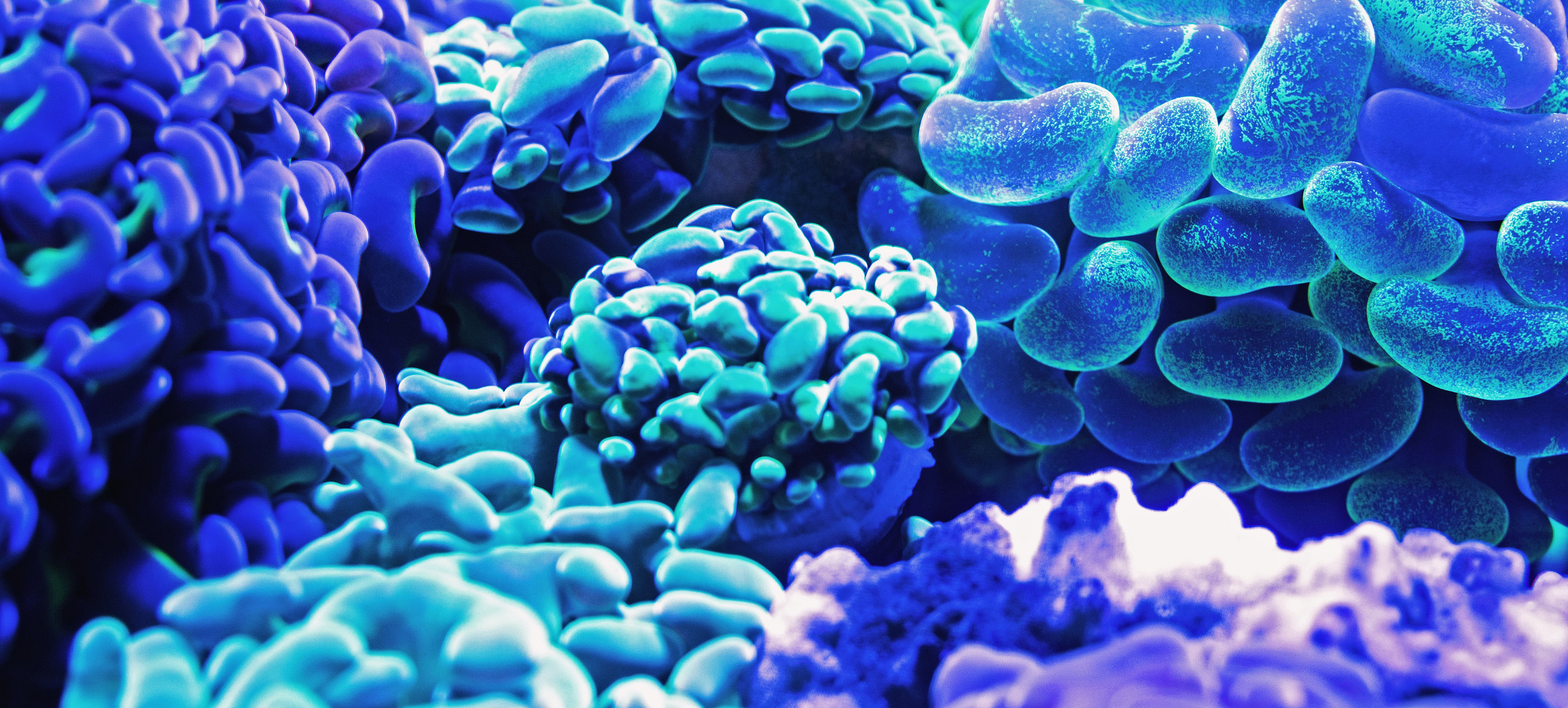
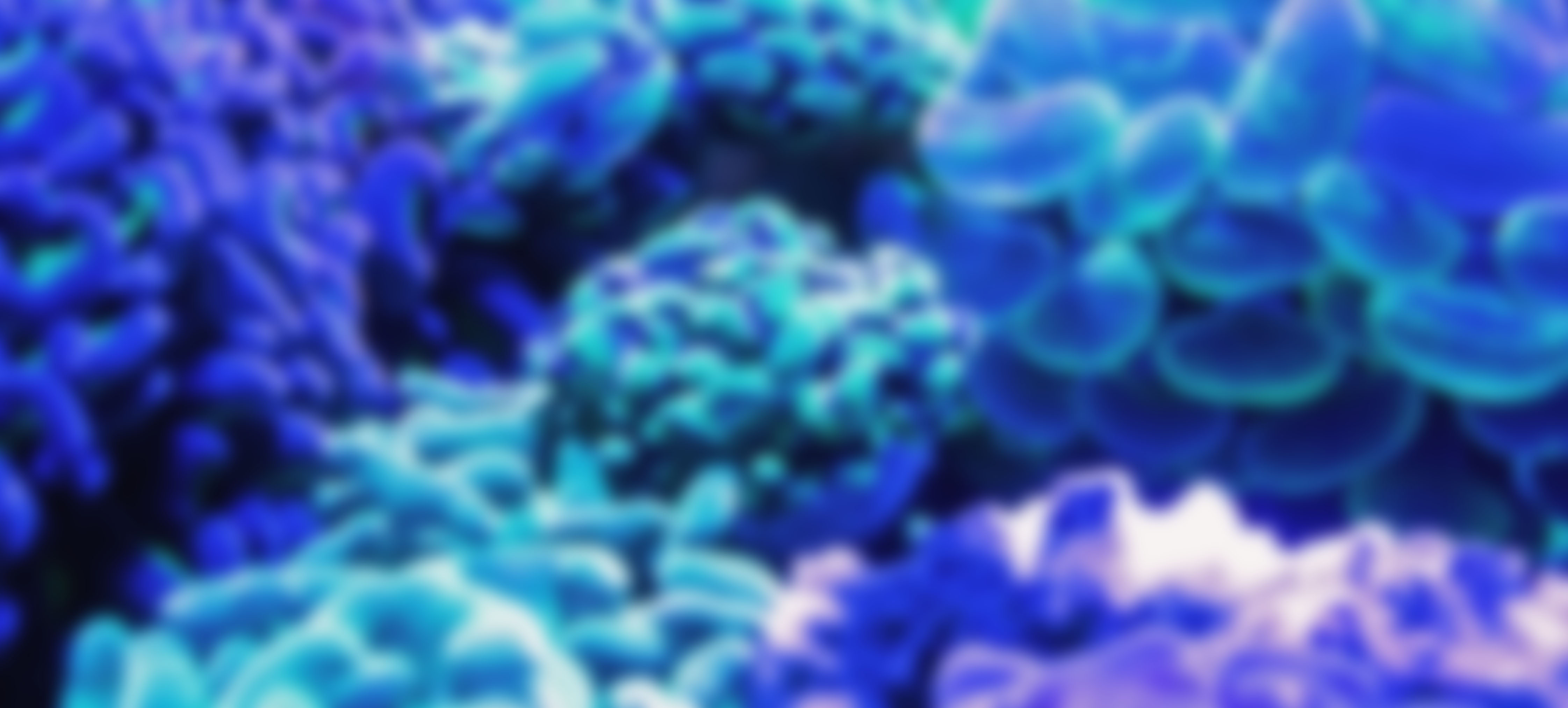
Changed title screen background image to pre-blurred and removed css filter

diff --git a/js/startGame.js b/js/startGame.js
@@ -47,7 +47,6 @@ export const startGame = (game) => {
             document.getElementById('container').style.gridTemplateColumns = "4fr 1fr";
             document.getElementById('sidebar').style.display = 'grid';
             document.getElementById('gameBoard').innerHTML = '';
-            document.querySelector('body').style.backdropFilter = 'none';
             document.getElementById('gameMenu').style.display = 'none';
             loadLevel(levels[game.level]);
             checkIfLoaded();

diff --git a/css/style.css b/css/style.css
@@ -9,7 +9,6 @@ body {
     background-image: url('../img/blue-coral-crop.jpg');
     margin: 0;
     padding: 0;
-    backdrop-filter: blur(10px);
     height: 100vh;
     background-size: cover;
     background-repeat: no-repeat;
